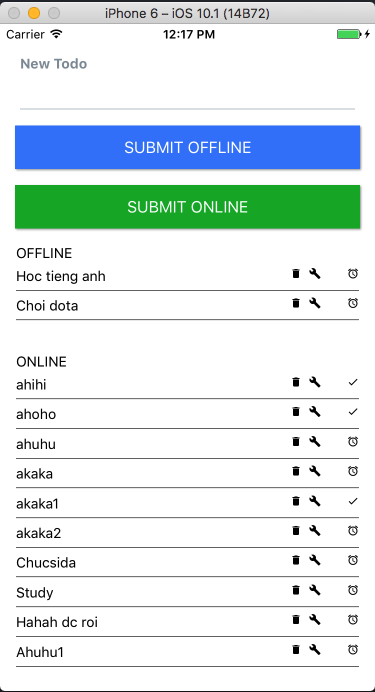
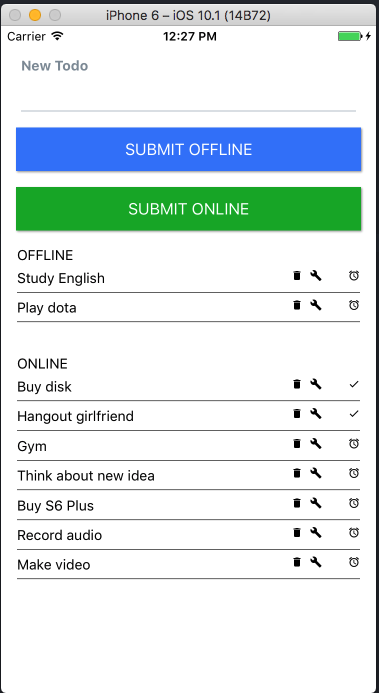
update picture & change data

Changed region(s): [[0.0, 0.0, 1.0, 1.0], [0.0293, 0.1821, 0.0587, 0.2124], [0.0, 0.9711, 0.0293, 1.0]]

diff --git a/server/createData.js b/server/createData.js
@@ -2,14 +2,14 @@ const Task = require('./model');
 
 const createData=()=>{
     const firstTask = new Task({
-      name: "ahihi",
+      name: "Buy disk",
       status: "done"
     })
     firstTask.save((err, item) => {
         console.log('saved:', item);
       });
     const secondTask = new Task({
-      name: "ahoho",
+      name: "Hangout girlfriend",
       status: "done"
     })
     secondTask.save((err, item) => {

diff --git a/server/index.js b/server/index.js
@@ -7,7 +7,7 @@ const { makeExecutableSchema } = require('graphql-tools');
 const GraphQLJSON = require('graphql-type-json');
 
 Mongoose.Promise = global.Promise;
-Mongoose.connect('mongodb://localhost/Todo4', (err) => {
+Mongoose.connect('mongodb://localhost/Todo', (err) => {
   if (err) {
     return err;
   }

diff --git a/server/model.js b/server/model.js
@@ -14,6 +14,6 @@ const TaskSchema = Mongoose.Schema({
   }
 });
 
-const Task = Mongoose.model('Task1', TaskSchema);
+const Task = Mongoose.model('Task', TaskSchema);
 
 module.exports = Task;

diff --git a/src/redux/todo/reducers.js b/src/redux/todo/reducers.js
@@ -1,6 +1,6 @@
 const initialState=[
-  "Hoc tieng anh",
-  "Choi dota",
+  "Study English",
+  "Play dota",
 ]
 
 const reducer = (state=initialState,action)=>{

diff --git a/README.md b/README.md
@@ -25,6 +25,7 @@ react-native link
 1. Run server
 
 ```
+mongod
 node run_server.js
 ```
 2. Run App
